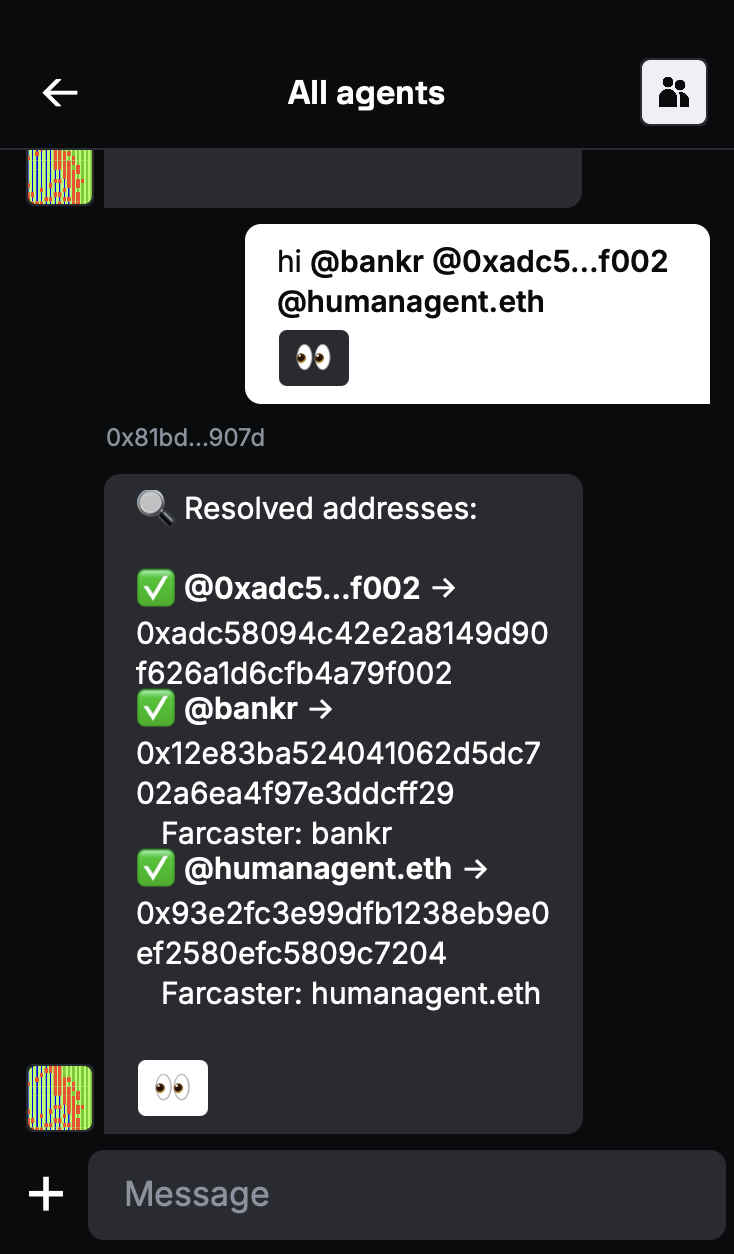
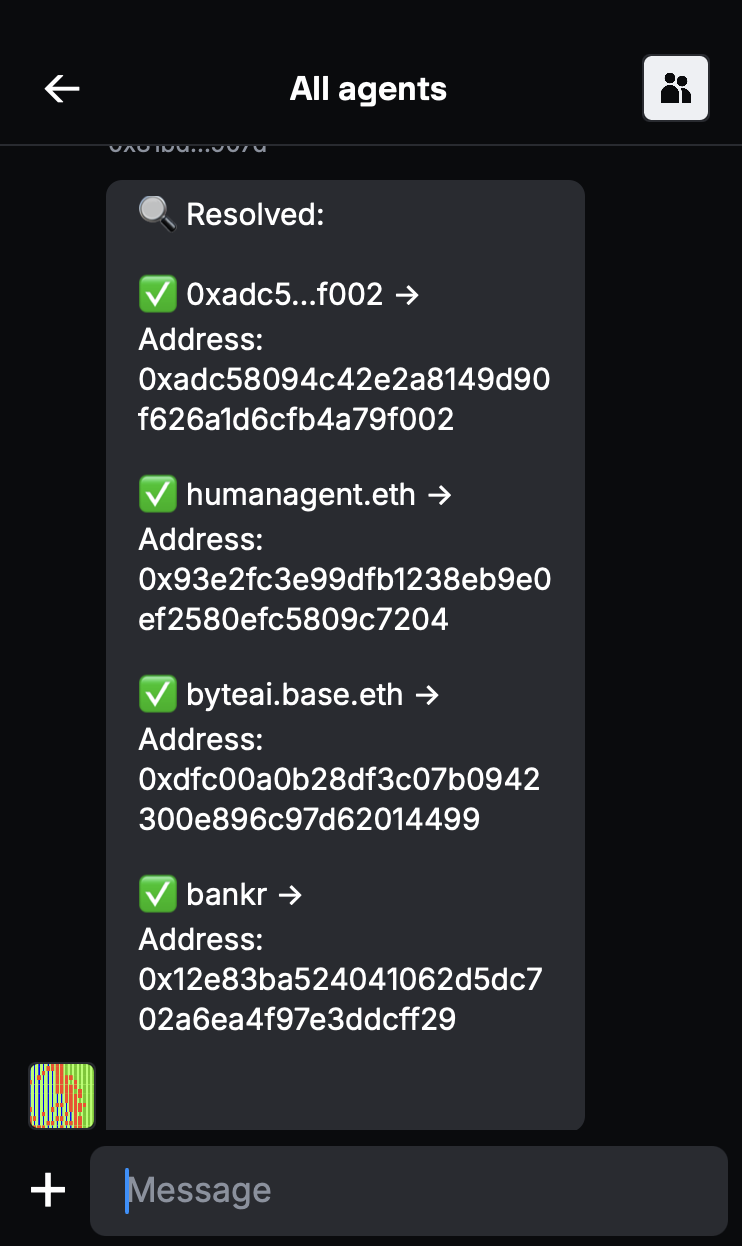
Refactor mention resolver code

Changed region(s): [[0.0, 0.0305, 1.0, 1.0], [0.03, 0.9454, 0.0899, 0.9759]]

diff --git a/examples/xmtp-domain-resolver/index.ts b/examples/xmtp-domain-resolver/index.ts
@@ -6,7 +6,7 @@ import {
   extractMentions,
   extractMemberAddresses,
   resolveName,
-} from "./resolver";
+} from "../../utils/resolver";
 
 loadEnvFile();
 
@@ -15,60 +15,41 @@ const agent = await Agent.createFromEnv({
 });
 
 agent.on("text", async (ctx) => {
-  const messageContent = ctx.message.content;
+  const mentions = extractMentions(ctx.message.content);
+  if (mentions.length === 0) return;
 
-  // Extract and resolve mentions
-  const mentions = extractMentions(messageContent);
-  if (mentions.length > 0) {
-    console.log(`Found ${mentions.length} mention(s):`, mentions);
+  // Get group members for shortened address matching
+  const memberAddresses = ctx.isGroup()
+    ? extractMemberAddresses(await ctx.conversation.members())
+    : [];
 
-    // Get member addresses if in a group (for matching shortened addresses)
-    let memberAddresses: string[] = [];
-    if (ctx.isGroup()) {
-      try {
-        const members = await ctx.conversation.members();
-        memberAddresses = extractMemberAddresses(members);
-        console.log(`Group has ${memberAddresses.length} members`);
-      } catch (error) {
-        console.error("Failed to get group members:", error);
-      }
+  // Resolve all mentions
+  const resolved = await resolveMentionsInMessage(
+    ctx.message.content,
+    memberAddresses,
+  );
+
+  // Build response
+  let response = "🔍 Resolved:\n\n";
+  for (const [identifier, address] of Object.entries(resolved)) {
+    if (!address) {
+      response += `❌ ${identifier} → Not found\n`;
+      continue;
     }
 
-    // Resolve all mentions to addresses
-    const resolved = await resolveMentionsInMessage(
-      messageContent,
-      memberAddresses,
-    );
-
-    // Build response message
-    let response = "🔍 Resolved addresses:\n\n";
-    for (const [identifier, address] of Object.entries(resolved)) {
-      if (!address) {
-        response += `❌ @${identifier} → Not found\n`;
-        continue;
-      }
-
-      const name = await resolveName(address);
-      response += `✅ @${identifier} → ${address}\n`;
-      if (name) {
-        response += `   Name: ${name}\n`;
-      }
-    }
-
-    await ctx.sendText(response);
-
-    // Log for debugging
-    console.log("Resolved mentions:", JSON.stringify(resolved, null, 2));
-  } else {
-    console.log("No mentions found");
+    const name = await resolveName(address);
+    response += name
+      ? `✅ ${identifier} → \nName: ${name}\nAddress: ${address}\n\n`
+      : `✅ ${identifier} → \nAddress: ${address}\n\n`;
   }
+
+  await ctx.sendText(response);
 });
 
 agent.on("start", () => {
   console.log(`Waiting for messages...`);
   console.log(`Address: ${agent.address}`);
   console.log(`🔗${getTestUrl(agent.client)}`);
-  console.log(`Send an Ethereum address or domain name to resolve!`);
 });
 
 await agent.start();
